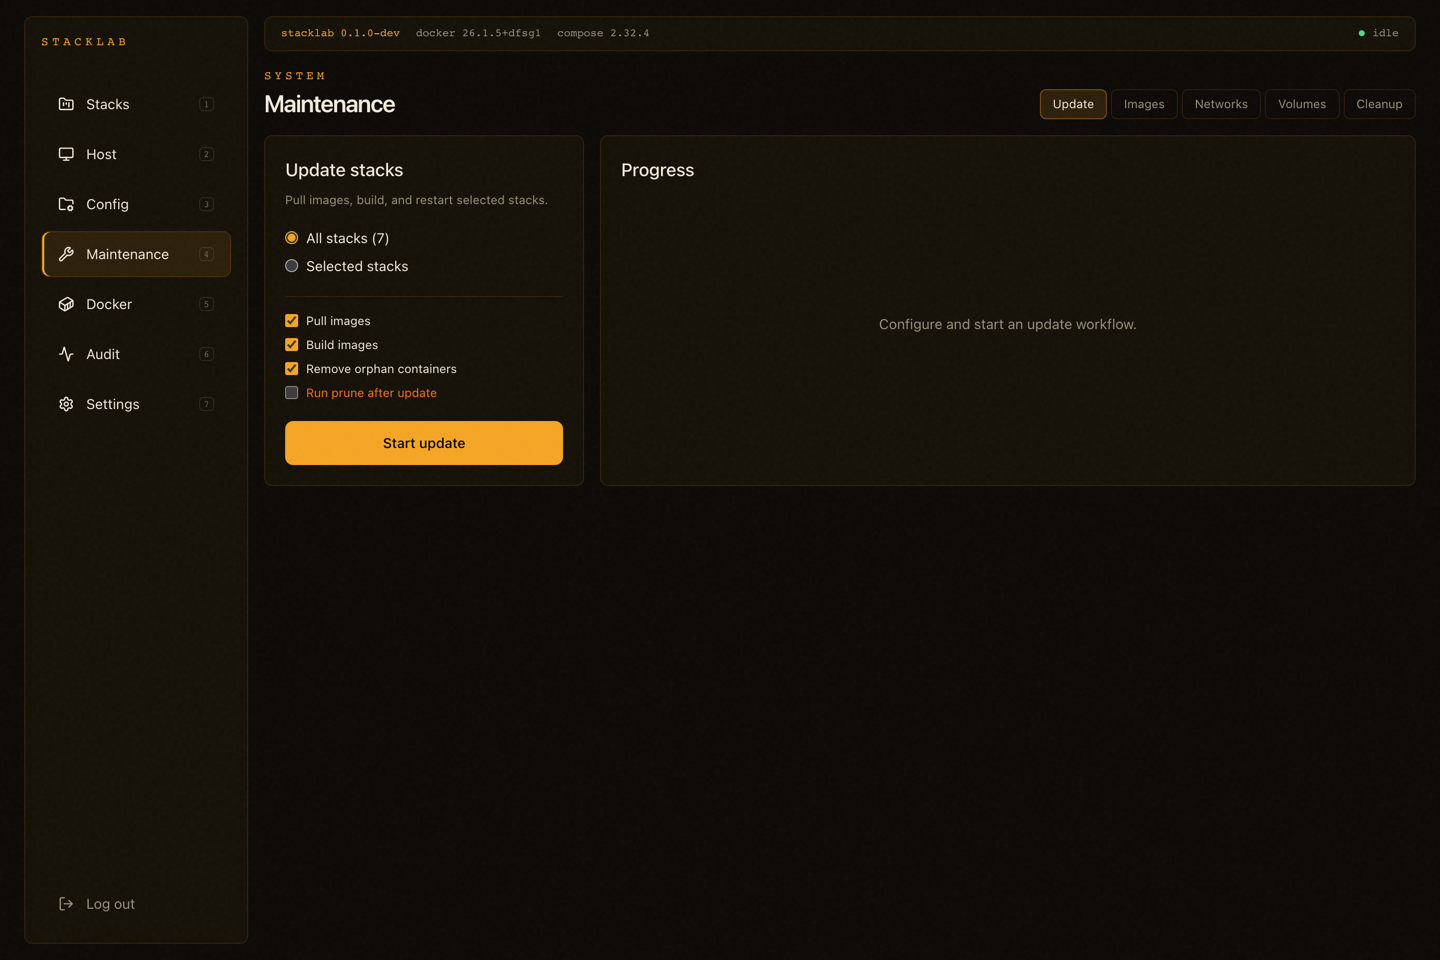
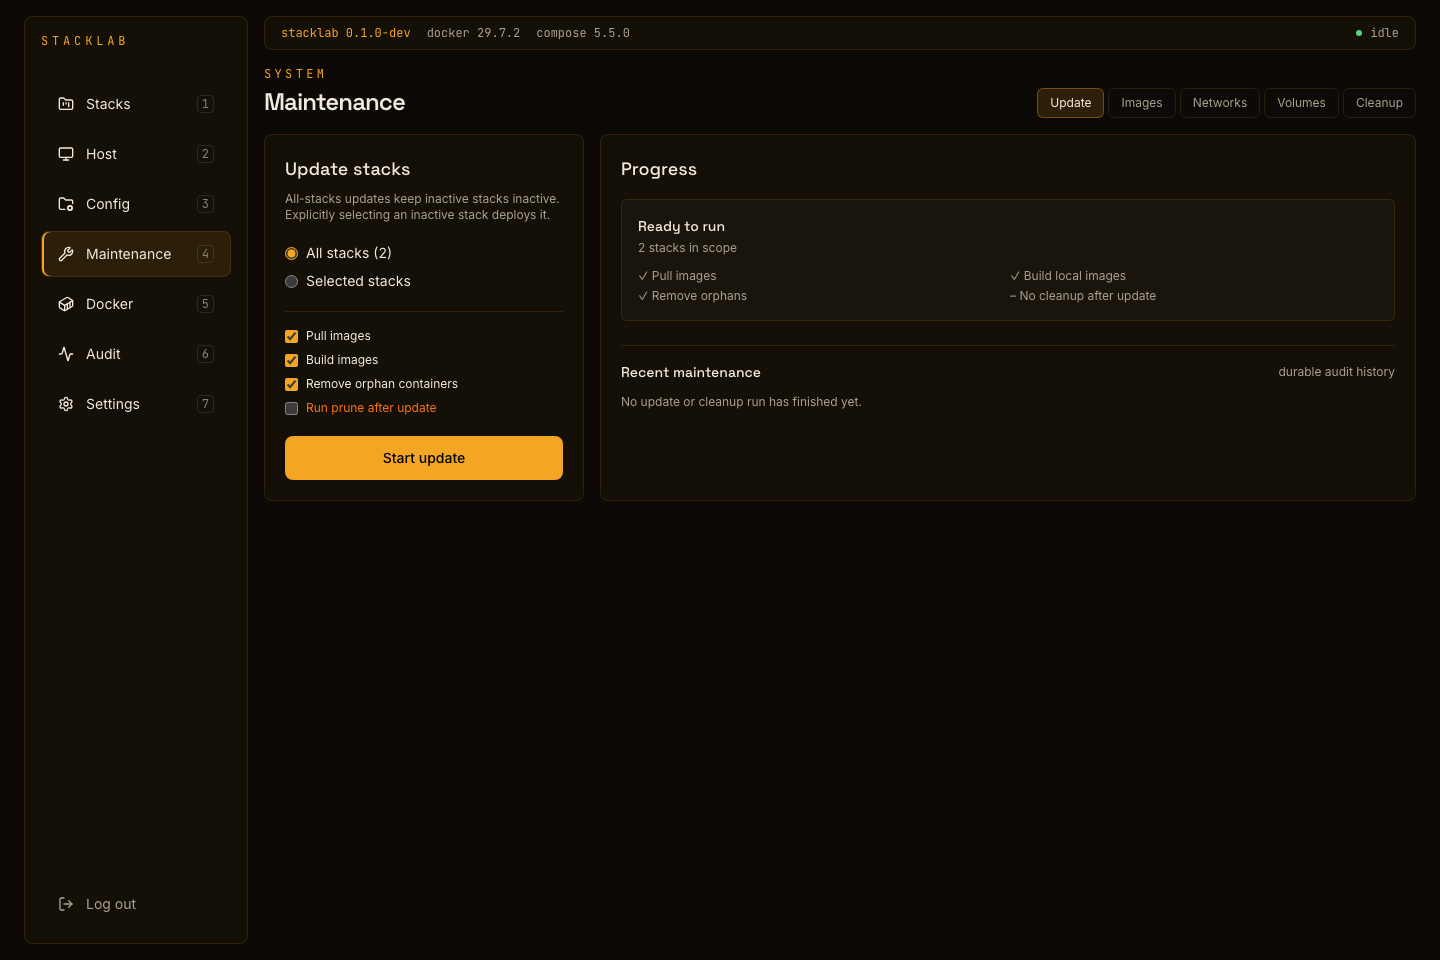
chore(docs): refresh screenshots for the new dashboard

diff --git a/docs/quality/browser-e2e.md b/docs/quality/browser-e2e.md
@@ -139,6 +139,29 @@ API and remove runtime, definition, config, and data in `afterEach`. Their Alpin
 probe traps termination and uses a short stop grace period so cleanup stays
 bounded.
 
+## README gallery
+
+The manual `README screenshots` workflow uses this same Docker-backed harness
+to regenerate the dashboard cards, compact stack list, Compose editor, and
+Maintenance screenshots in `docs/images/readme/`. It uploads the PNGs as an
+artifact and attempts to open a refresh PR. Review the actual captures before
+merging; live resource values naturally vary between runs.
+
+To capture locally, build the frontend and start the isolated backend above,
+then run:
+
+```bash
+STACKLAB_URL=http://127.0.0.1:18081 \
+STACKLAB_PASSWORD=stacklab-e2e \
+npm --prefix frontend run screenshots:readme
+```
+
+The capture script creates and removes a disposable `readme-stack`. Use the
+isolated harness rather than an operator's installation. Dashboard capture
+waits for about a minute of real resource history, then switches to the table
+without resetting that history. Fonts and screen-specific data must finish
+loading, and visible errors fail the capture.
+
 ## Failure artifacts
 
 Playwright is configured with:

diff --git a/README.md b/README.md
@@ -82,6 +82,13 @@ not supported.
 
 ## Product tour
 
+<details>
+<summary>Compact stack list with resource sorting</summary>
+
+![Stack list sorted by RAM usage](docs/images/readme/stacks-list.png)
+
+</details>
+
 | Compose editing | Maintenance review |
 | --- | --- |
 | ![Compose editor with resolved configuration](docs/images/readme/stack-editor.png) | ![Maintenance update workflow](docs/images/readme/maintenance-update.png) |
